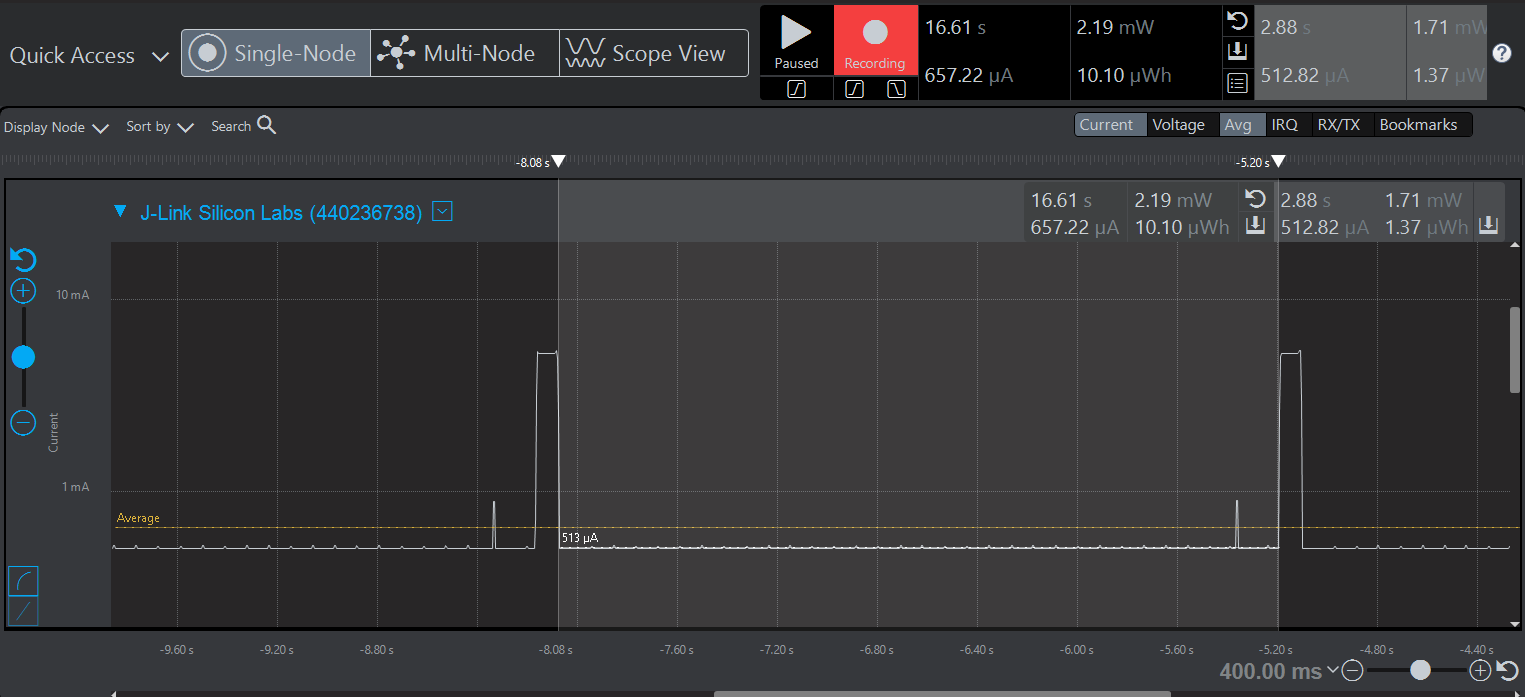
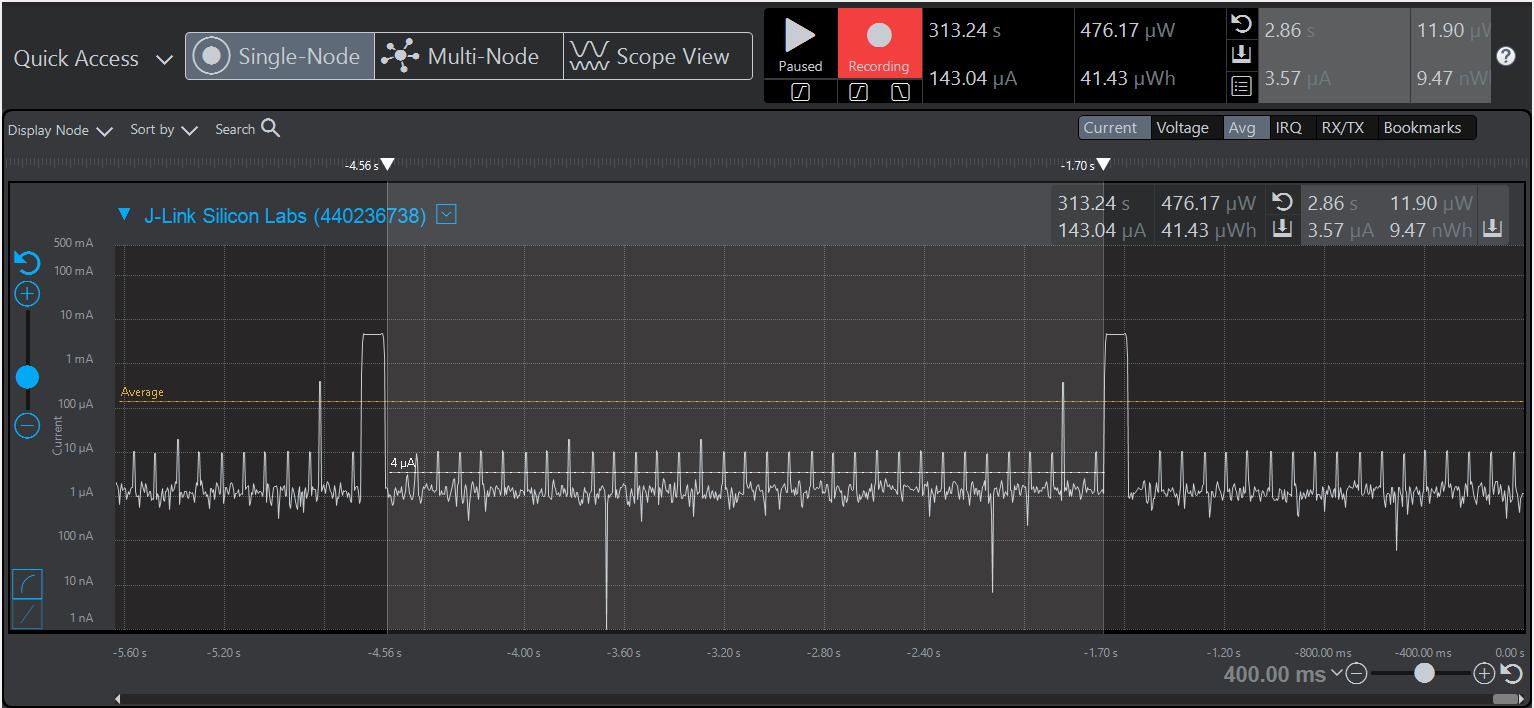
ioT Assignment 3

diff --git a/src/gpio.c b/src/gpio.c
@@ -36,9 +36,11 @@ void gpioInit()
 
   // Student Edit:
 
-   GPIO_DriveStrengthSet(LED0_port, gpioDriveStrengthStrongAlternateStrong);
+ //  GPIO_DriveStrengthSet(gpioPortC, gpioDriveStrengthStrongAlternateStrong);
 	//GPIO_DriveStrengthSet(LED0_port, gpioDriveStrengthWeakAlternateWeak);
-	GPIO_PinModeSet(LED0_port, LED0_pin, gpioModePushPull, true);
+	//GPIO_PinModeSet(gpioPortC, LED0_pin, gpioModePushPull, true);
+
+	GPIO_PinModeSet( gpioPortD, I2C_TEMP_PIN, gpioModePushPull, true );
 
 	//GPIO_DriveStrengthSet(LED1_port, gpioDriveStrengthStrongAlternateStrong);
 	//GPIO_DriveStrengthSet(LED1_port, gpioDriveStrengthWeakAlternateWeak);

diff --git a/app.c b/app.c
@@ -66,7 +66,7 @@
 //           to call one of the LOG_***() functions from.
 
 // Include logging specifically for this .c file
-#define INCLUDE_LOG_DEBUG 1
+//#define INCLUDE_LOG_DEBUG 1
 #include "src/log.h"
 
 

diff --git a/src/irq.c b/src/irq.c
@@ -1,5 +1,5 @@
 #include "irq.h"
-#define INCLUDE_LOG_DEBUG 1
+//#define INCLUDE_LOG_DEBUG 1
 #include <em_letimer.h>
 #include "src/log.h"
 #include <stdbool.h>

diff --git a/questions/Assignment3-I2CLoadPowerManagement.md b/questions/Assignment3-I2CLoadPowerManagement.md
@@ -6,21 +6,21 @@ See [Mastering Markdown](https://guides.github.com/features/mastering-markdown/)
 *Please include screenshots of the profiler window detailing each current measurement captured.  See the file Instructions to add screenshots in assignment.docx in the ECEN 5823 Student Public Folder.* 
 
 1. What is the average current per period?
-   Answer:
+   Answer: 144uA
    <br>Screenshot:  
    ![Avg_current_per_period](screenshots/sampleimage.jpg)  
    
 2. What is the average current when the Si7021 is Powered Off?  
-   Answer:
+   Answer: 3.57uA
    <br>Screenshot:  
    ![Avg_current_lpmOFF](link-to-screenshot-image)
    
 3. What is the average current when the Si7021 is Powered On?  
-   Answer:
+   Answer:4.50mA
    <br>Screenshot:  
    ![Avg_current_lpmON](link-to-screenshot-image)
    
 4. How long is the Si7021 Powered On for 1 temperature reading?  
-   Answer:
+   Answer:87.50mS
    <br>Screenshot:  
    ![Time_lpmON](link-to-screenshot-image)
